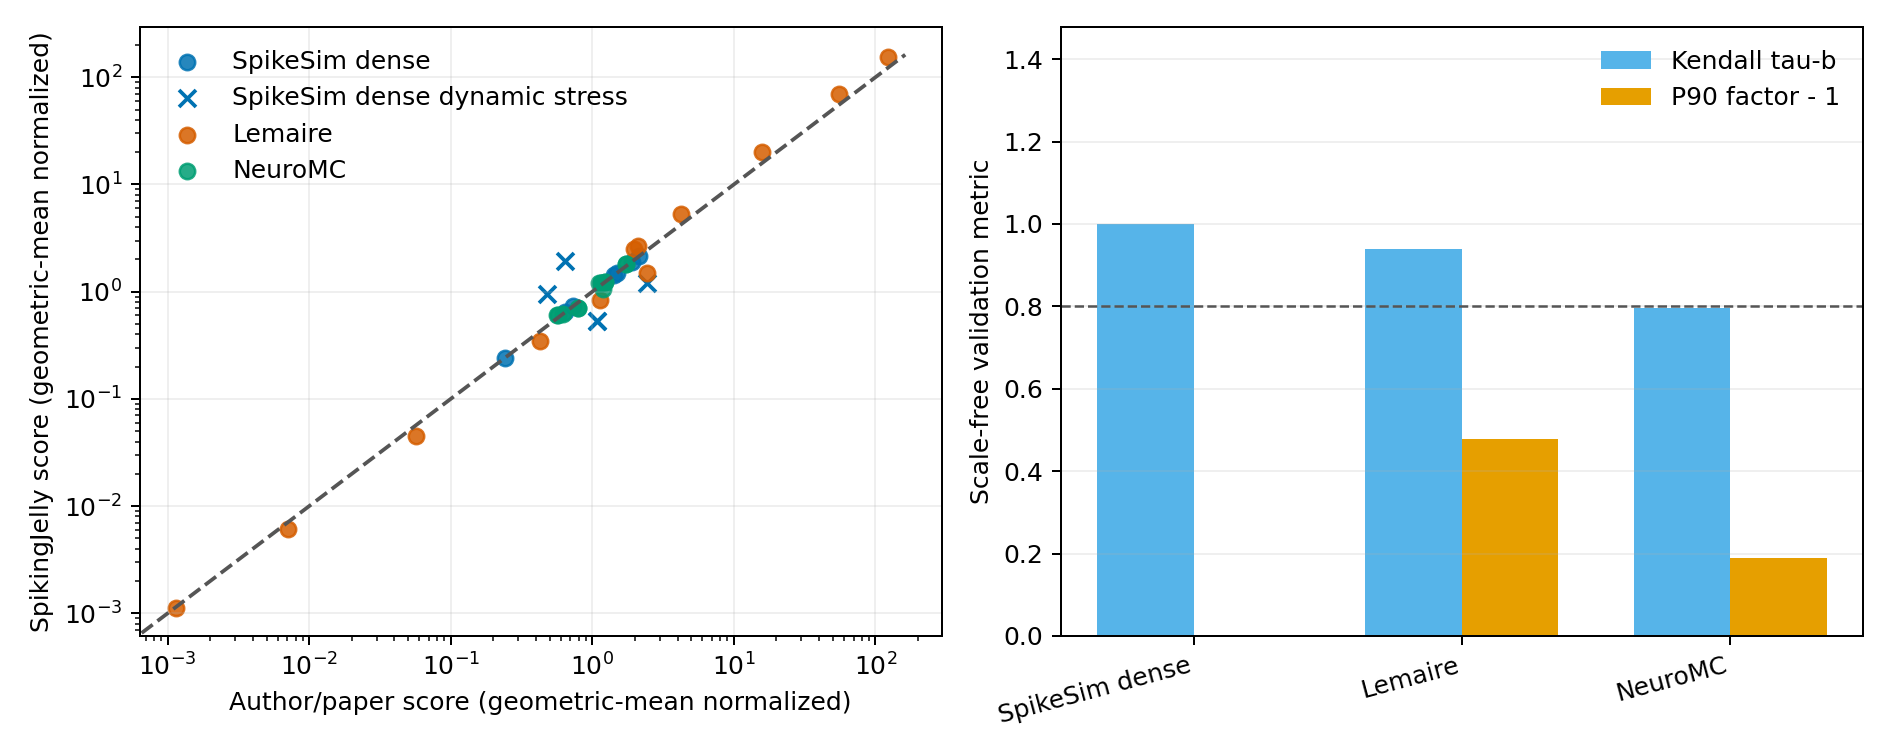
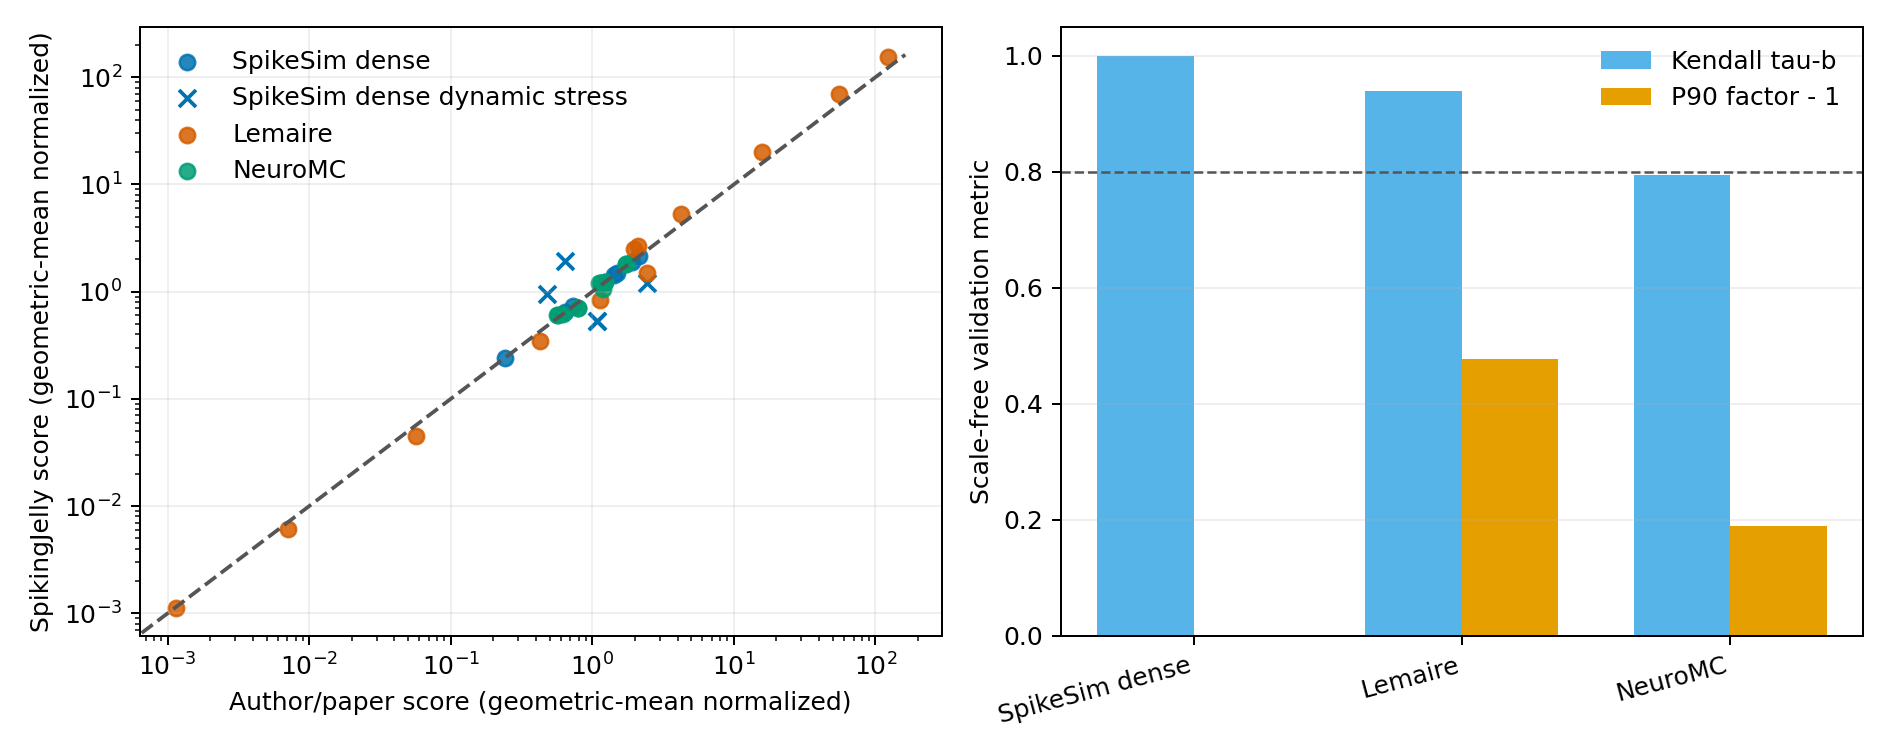
Address energy validation review feedback

diff --git a/benchmark/energy_model_validation.py b/benchmark/energy_model_validation.py
@@ -631,6 +631,7 @@ def _plot(scores: list[Score], metrics: dict[str, dict[str, float]]) -> None:
     x = np.arange(len(models))
     tau = [metrics[model]["kendall_tau_b"] for model in models]
     p90 = [metrics[model]["p90_factor"] for model in models]
+    p90_minus_one = np.asarray(p90) - 1.0
     bars.bar(
         x - 0.18,
         tau,
@@ -640,14 +641,14 @@ def _plot(scores: list[Score], metrics: dict[str, dict[str, float]]) -> None:
     )
     bars.bar(
         x + 0.18,
-        np.asarray(p90) - 1.0,
+        p90_minus_one,
         width=0.36,
         color="#E69F00",
         label="P90 factor - 1",
     )
     bars.axhline(0.8, color="#555555", linestyle="--", linewidth=1)
     bars.set_xticks(x, models, rotation=15, ha="right")
-    bars.set_ylim(0, max(1.05, max(p90)))
+    bars.set_ylim(min(0.0, min(tau)), max(1.05, max(p90_minus_one)))
     bars.set_ylabel("Scale-free validation metric")
     bars.legend(frameon=False)
     bars.grid(axis="y", alpha=0.2)

diff --git a/docs/source/tutorials/en/op_counter.rst b/docs/source/tutorials/en/op_counter.rst
@@ -458,9 +458,9 @@ cases are excluded from the correlation, with runtime/static ratios from
   accuracy.
 * Ranking and P90 weaken or remove absolute scale. A fixed absolute bias can
   coexist with favorable metrics.
-* Coverage remains incomplete: published equations reconstruct Lemaire,
-  NeuroMC covers forward energy only, and Simple Energy and SpikeSim event have
-  no independent end-to-end external estimator in this benchmark.
+* Coverage remains incomplete: published equations reconstruct Lemaire, this
+  benchmark validates only NeuroMC forward energy, and Simple Energy and
+  SpikeSim event have no independent end-to-end external estimator.
 
 Run the benchmark manually with:
 
